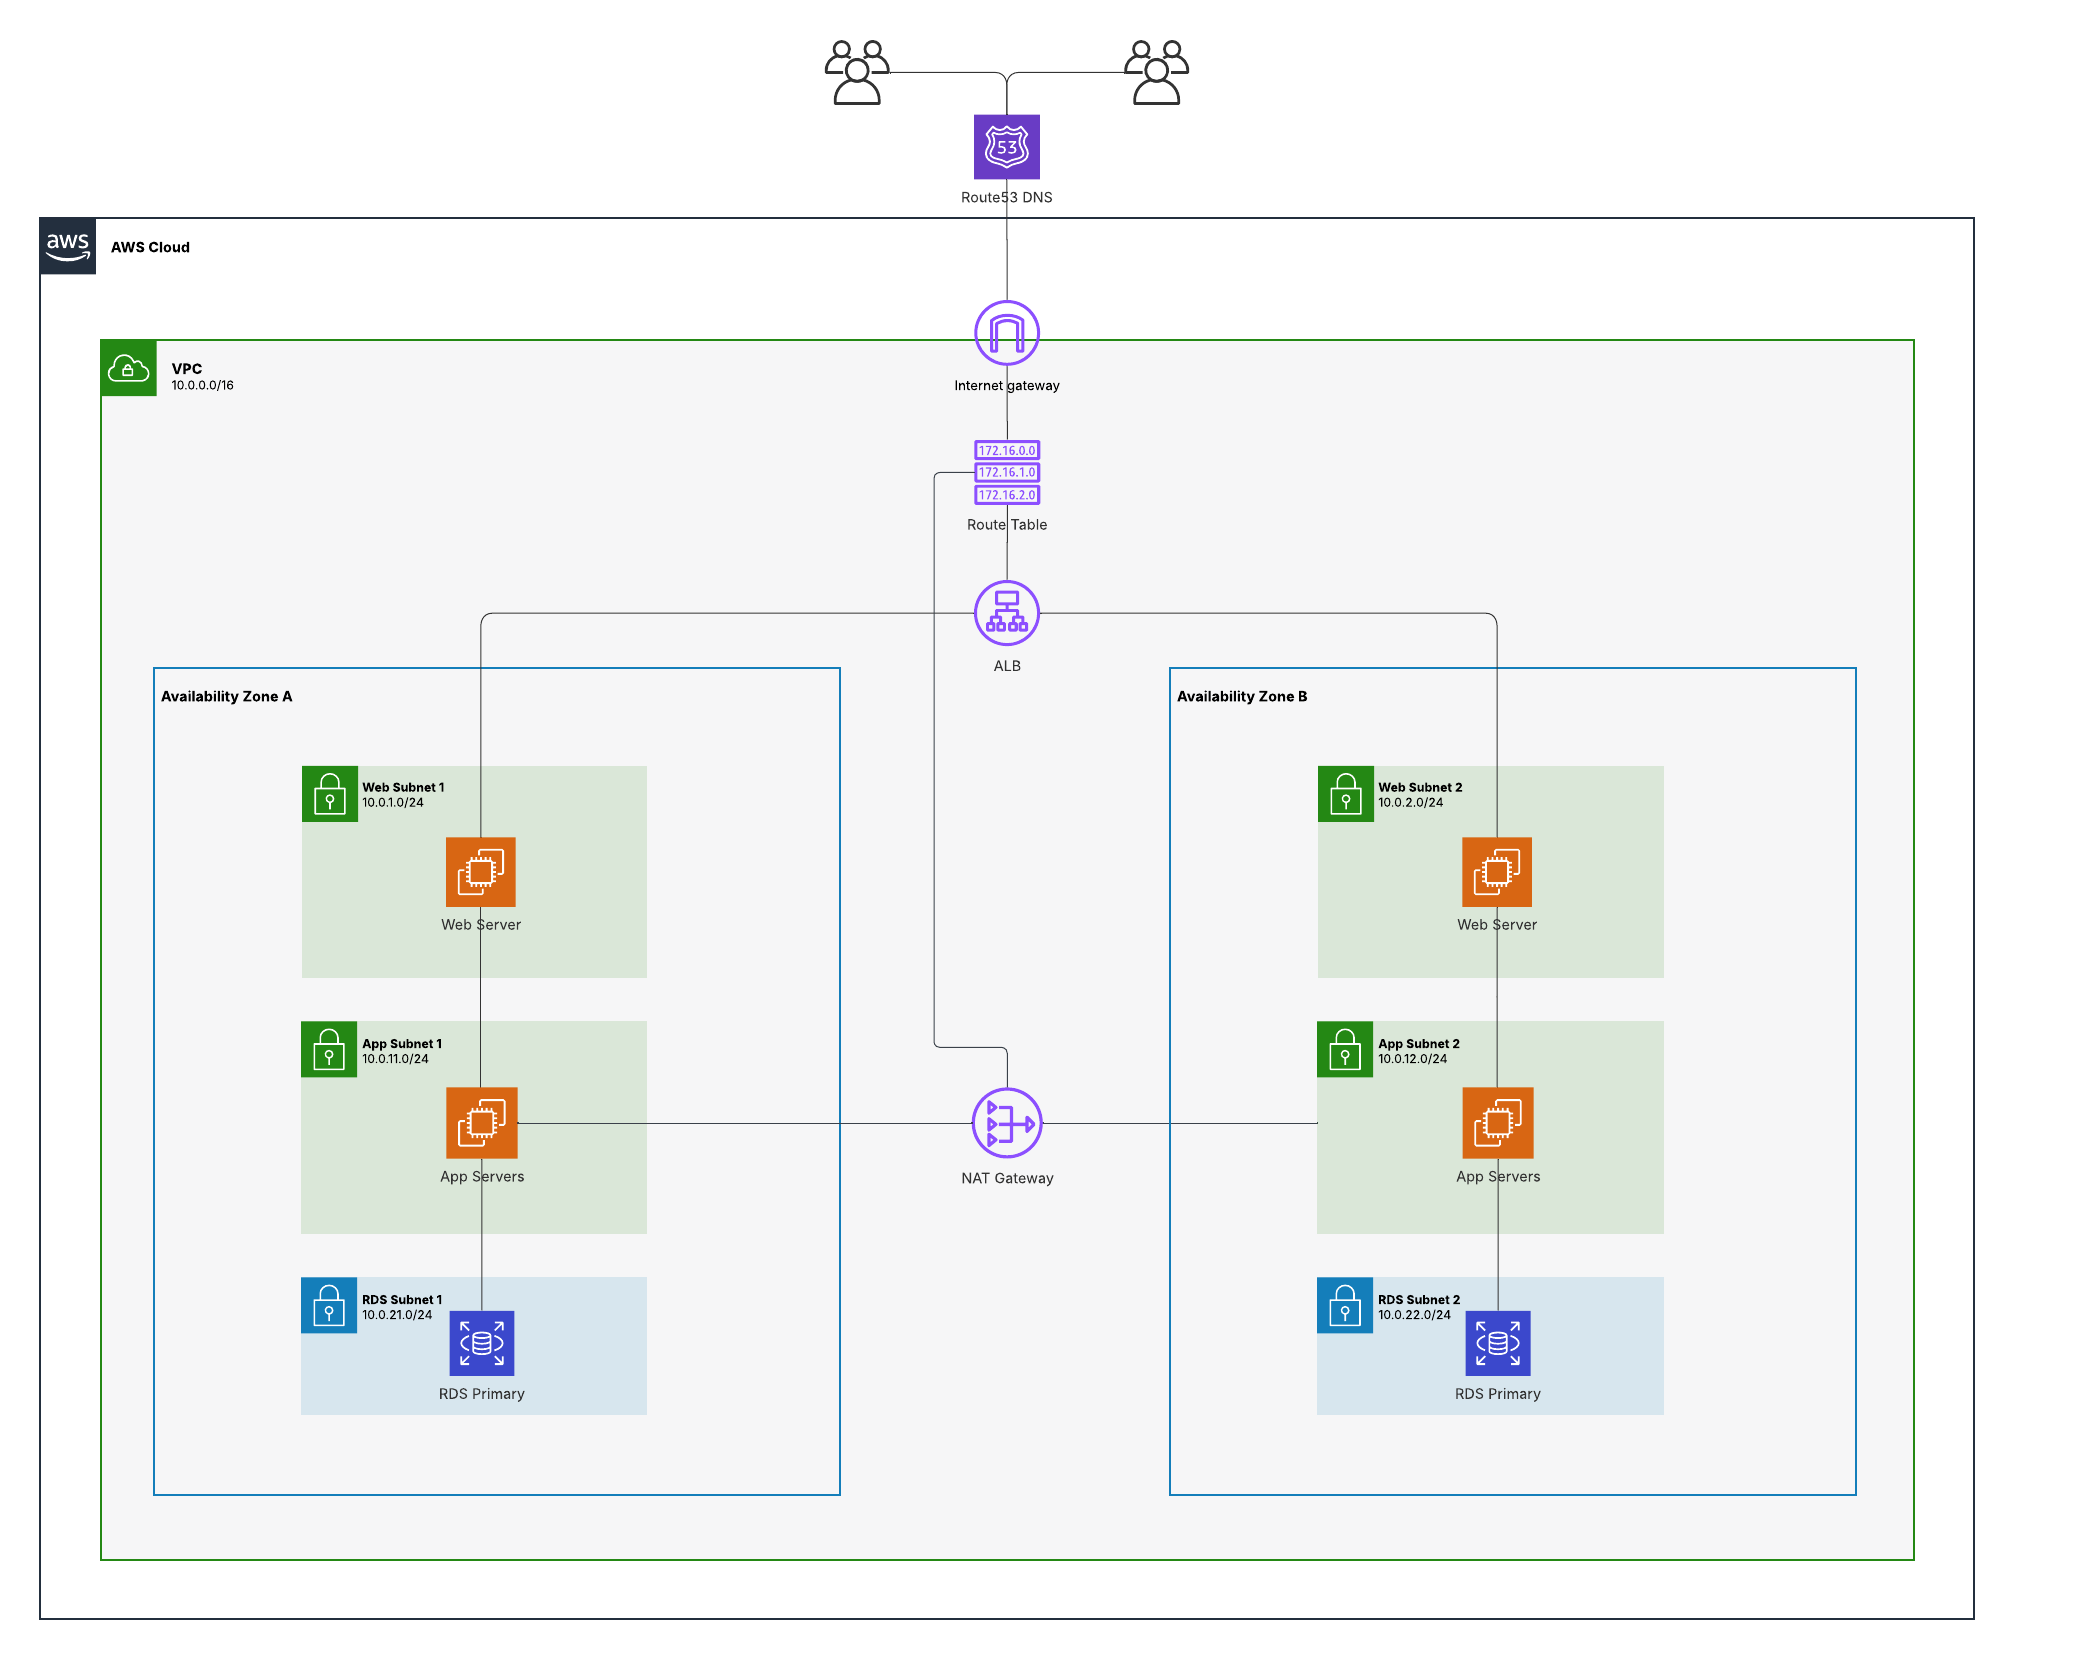
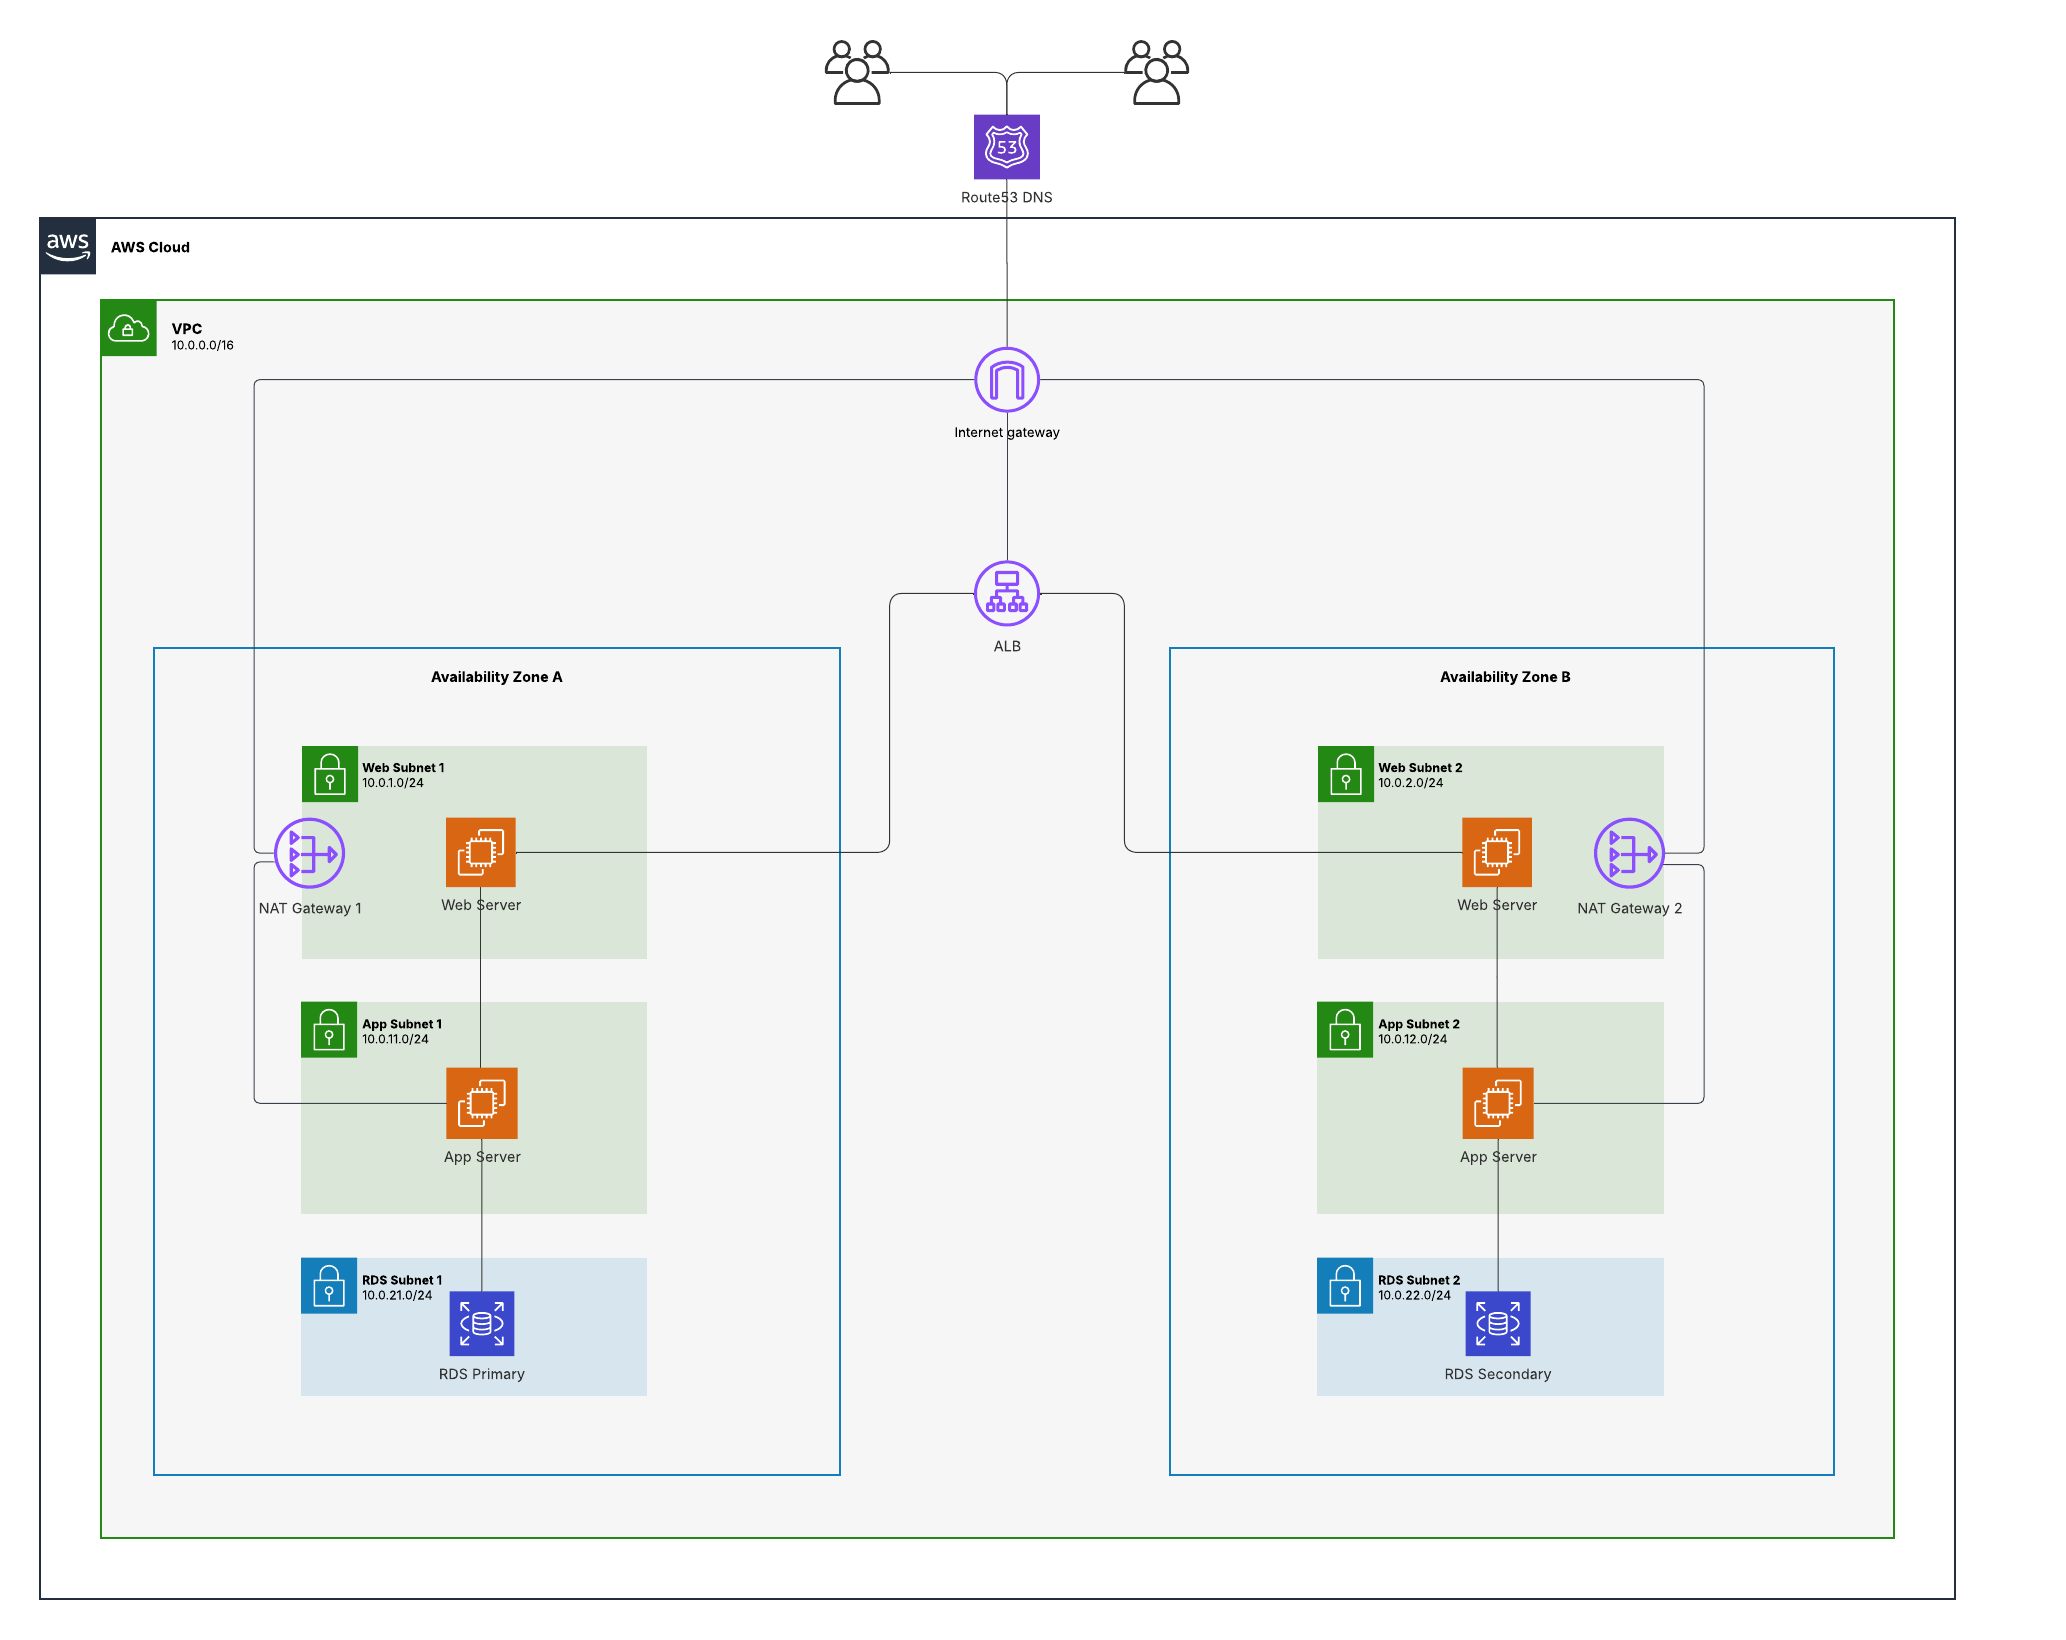
Updated HLD Diagram and README.md file

diff --git a/README.md b/README.md
@@ -1,2 +1,68 @@
-# terraform_3_tier_web_app_aws
-terraform apply -var="db_password={custom_db_password}" --auto-approve
+# High Availability 3-Tier Web Architecture on AWS with Terraform
+
+This project provisions a production-grade, highly available 3-Tier Web Architecture on AWS using Terraform. It demonstrates infrastructure-as-code (IaC) best practices, including Multi-AZ redundancy, secure networking with NAT Gateways, and strict security group chaining.
+
+![Architecture Diagram](terraform_3_tier_web_app_aws.png)
+
+## 🏗 Architecture Overview
+
+The infrastructure is designed for fault tolerance and security, distributed across **two Availability Zones (us-east-1a, us-east-1b)**.
+
+### 1. Presentation Tier (Public)
+* **Application Load Balancer (ALB):** Distributes incoming HTTP traffic across web servers in multiple zones.
+* **Web Servers (Apache):** Hosted in public subnets to serve static content and proxy requests.
+* **NAT Gateways:** Two distinct NAT Gateways (one per zone) to provide secure internet access for private instances without exposing them to inbound traffic.
+
+### 2. Application Tier (Private)
+* **Node.js App Servers:** Hosted in private subnets. They run a Node.js API and are not accessible directly from the internet.
+* **Security:** Only accepts traffic from the Web Tier Security Group.
+
+### 3. Data Tier (Private)
+* **RDS MySQL (Multi-AZ):** A primary database instance with a synchronous standby replica in a second availability zone for automatic failover.
+* **Security:** Locked down to only accept connections from the Application Tier.
+
+## 🚀 Features
+* **High Availability:** All layers (Web, App, DB, Network) are redundant across two zones.
+* **Security:** "Defense in Depth" strategy using VPC, Private Subnets, and Security Group chaining.
+* **Resiliency:** If one Availability Zone goes offline, the application remains fully functional using resources in the second zone.
+* **Automation:** Full infrastructure provisioning via Terraform user data scripts.
+
+## 🛠 Prerequisites
+
+* **Terraform:** v1.0+ installed locally.
+* **AWS CLI:** Configured with valid credentials (`aws configure`).
+* **SSH Key Pair:** An AWS EC2 Key Pair named `my-key-pair` created in `us-east-1`.
+
+## 📂 Project Structure
+
+* `main.tf` / `provider.tf`: Provider configuration.
+* `vpc.tf` / `subnet.tf` / `route_table.tf` / `nat.tf`: Networking core.
+* `ec2.tf` / `app_ec2.tf`: Compute resources (Web & App tiers).
+* `rds.tf`: Database resources.
+* `alb.tf`: Load Balancer and Target Groups.
+* `*_sg.tf`: Security Groups (Firewalls).
+
+## ⚡ Deployment Instructions
+
+**1. Initialize Terraform**
+Download required providers and initialize the backend.
+```bash
+terraform init
+
+```
+
+**2. Plan Terraform**
+
+Review the Plan Check the resources that will be created. You must provide a secure password for the database.
+```bash
+terraform plan -var="db_password=YourSecurePassword123"
+
+```
+
+**3. Apply Terraform**
+
+Apply Infrastructure Provision the environment
+```bash
+terraform apply -var="db_password=YourSecurePassword123" --auto-approve
+
+```
